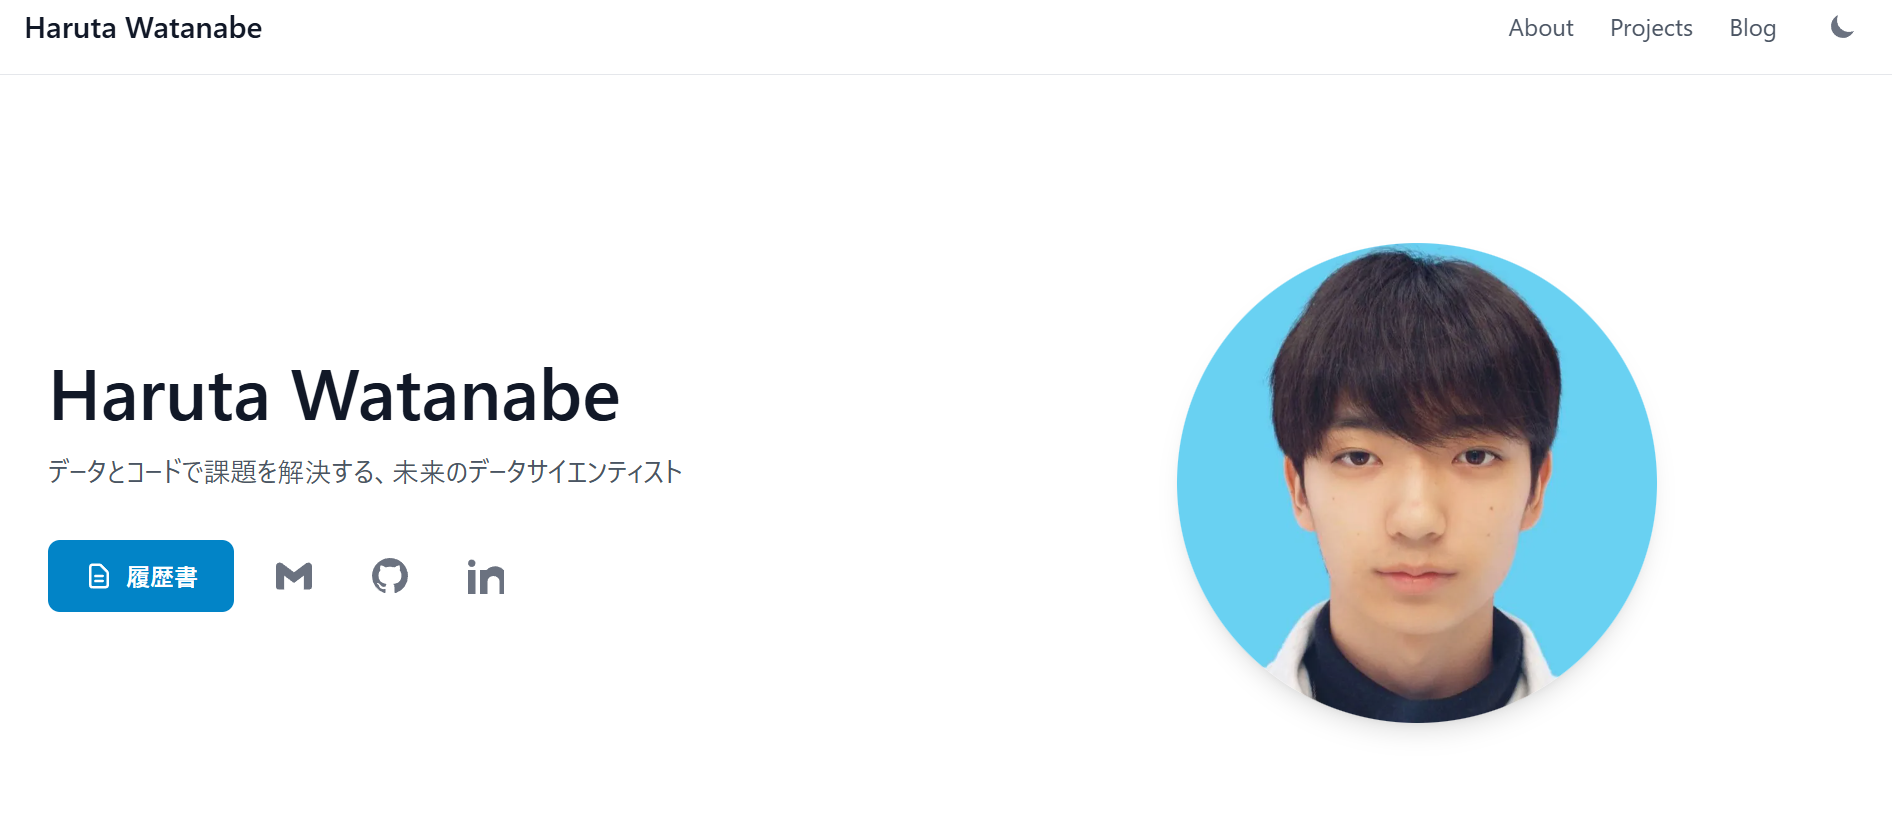
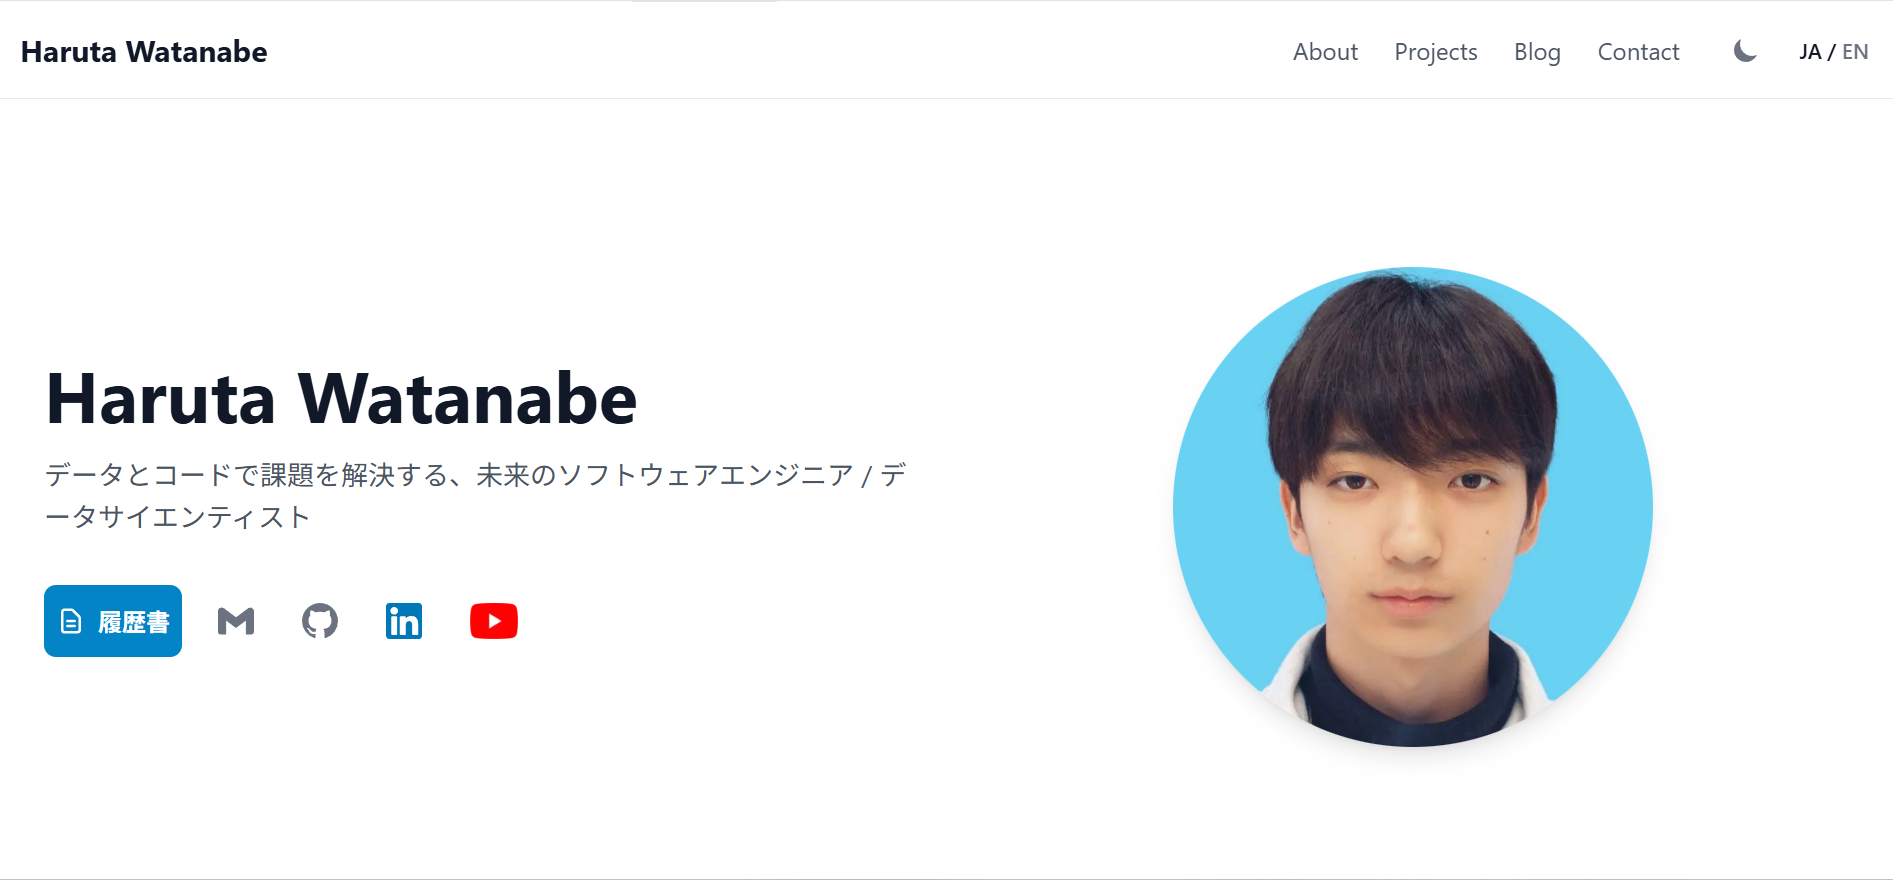
update/Updated README.md

diff --git a/README.md b/README.md
@@ -5,7 +5,7 @@
 こちらは渡邉 朝太（Haruta Watanabe）のポートフォリオサイトのソースコードです。
 This is the source code for the portfolio website of Haruta Watanabe.
 
-**Live URL:** [https://harutawatanabe.com](https://harutawatanabe.com)
+**Live URL:** <a href="https://harutawatanabe.com" target="_blank" rel="noopener noreferrer">https://harutawatanabe.com</a>
 
 ---
 
@@ -19,12 +19,12 @@ This site serves as my online business card, designed to introduce my skills, pr
 
 ## 🛠 使用技術 / Tech Stack
 
-| カテゴリ (Category)         | 技術 (Technology)                 |
-| :------------------------- | --------------------------------  |
-| フレームワーク (Framework)  | Astro                             |
-| スタイリング (Styling)      | Tailwind CSS                      |
-| 言語 (Languages)           | TypeScript, HTML, CSS, JavaScript  |
-| デプロイ (Deployment)       | GitHub Pages                      |
+| カテゴリ (Category)        | 技術 (Technology)                 |
+| :------------------------- | --------------------------------- |
+| フレームワーク (Framework) | Astro                             |
+| スタイリング (Styling)     | Tailwind CSS                      |
+| 言語 (Languages)           | TypeScript, HTML, CSS, JavaScript |
+| デプロイ (Deployment)      | GitHub Pages                      |
 
 ---
 
@@ -75,7 +75,7 @@ To run this project in your local environment, follow the steps below.
 
 **ただし、リポジトリに含まれる以下のコンテンツは MIT ライセンスの対象外であり、すべての権利は作者である Haruta Watanabe が保有します。**
 
-- プロフィール写真を含む、すべての画像ファイル
+- youtube_social_icon_red.png以外のプロフィール写真を含む、すべての画像ファイル
 - プロジェクトの紹介文やブログ、自己紹介などのテキストコンテンツ
 
 ---
@@ -84,5 +84,5 @@ The source code of this website is licensed under the [MIT License](LICENSE). Se
 
 **However, the content included in this repository is NOT subject to the MIT License, and all rights are reserved by the author, Haruta Watanabe. This includes:**
 
-- All image files, including the profile photo.
+- All image files, including profile photos other than youtube_social_icon_red.png.
 - All text content, such as project descriptions, blogs and the "About Me" section.
